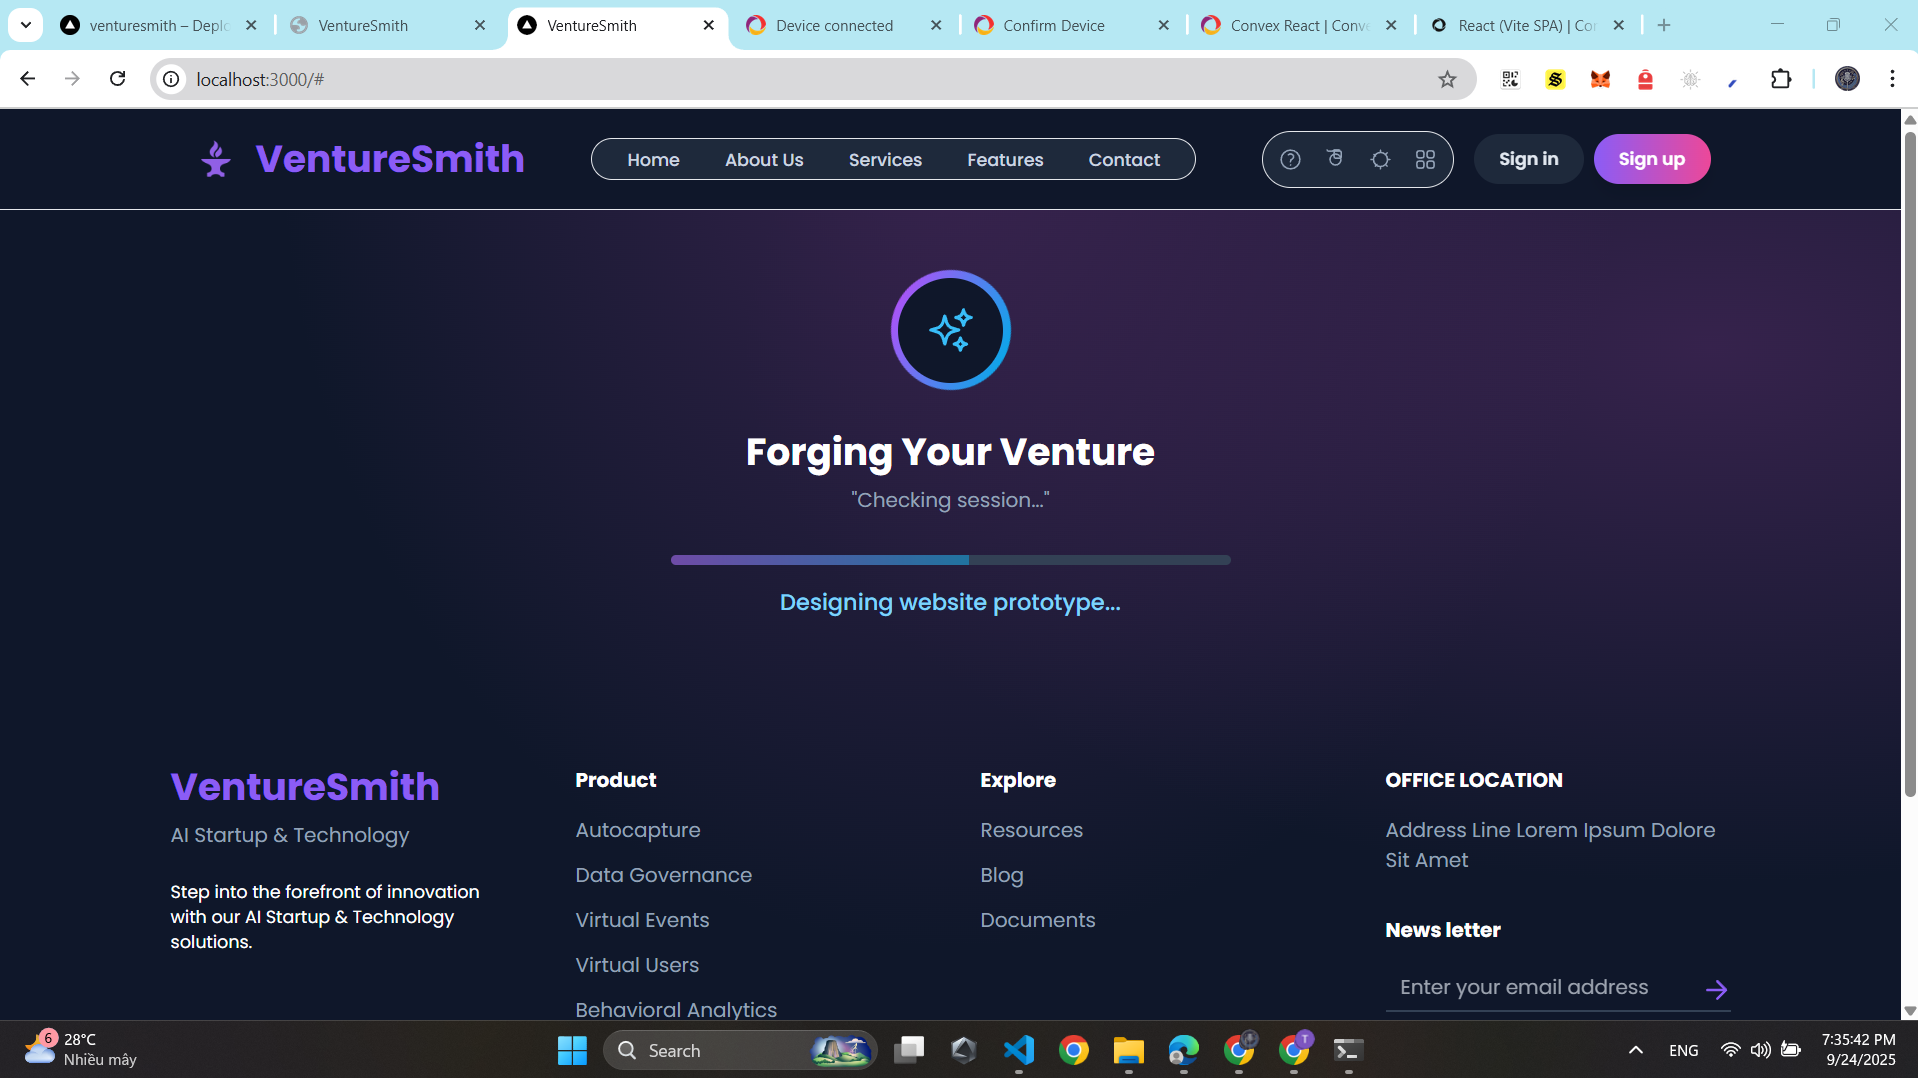
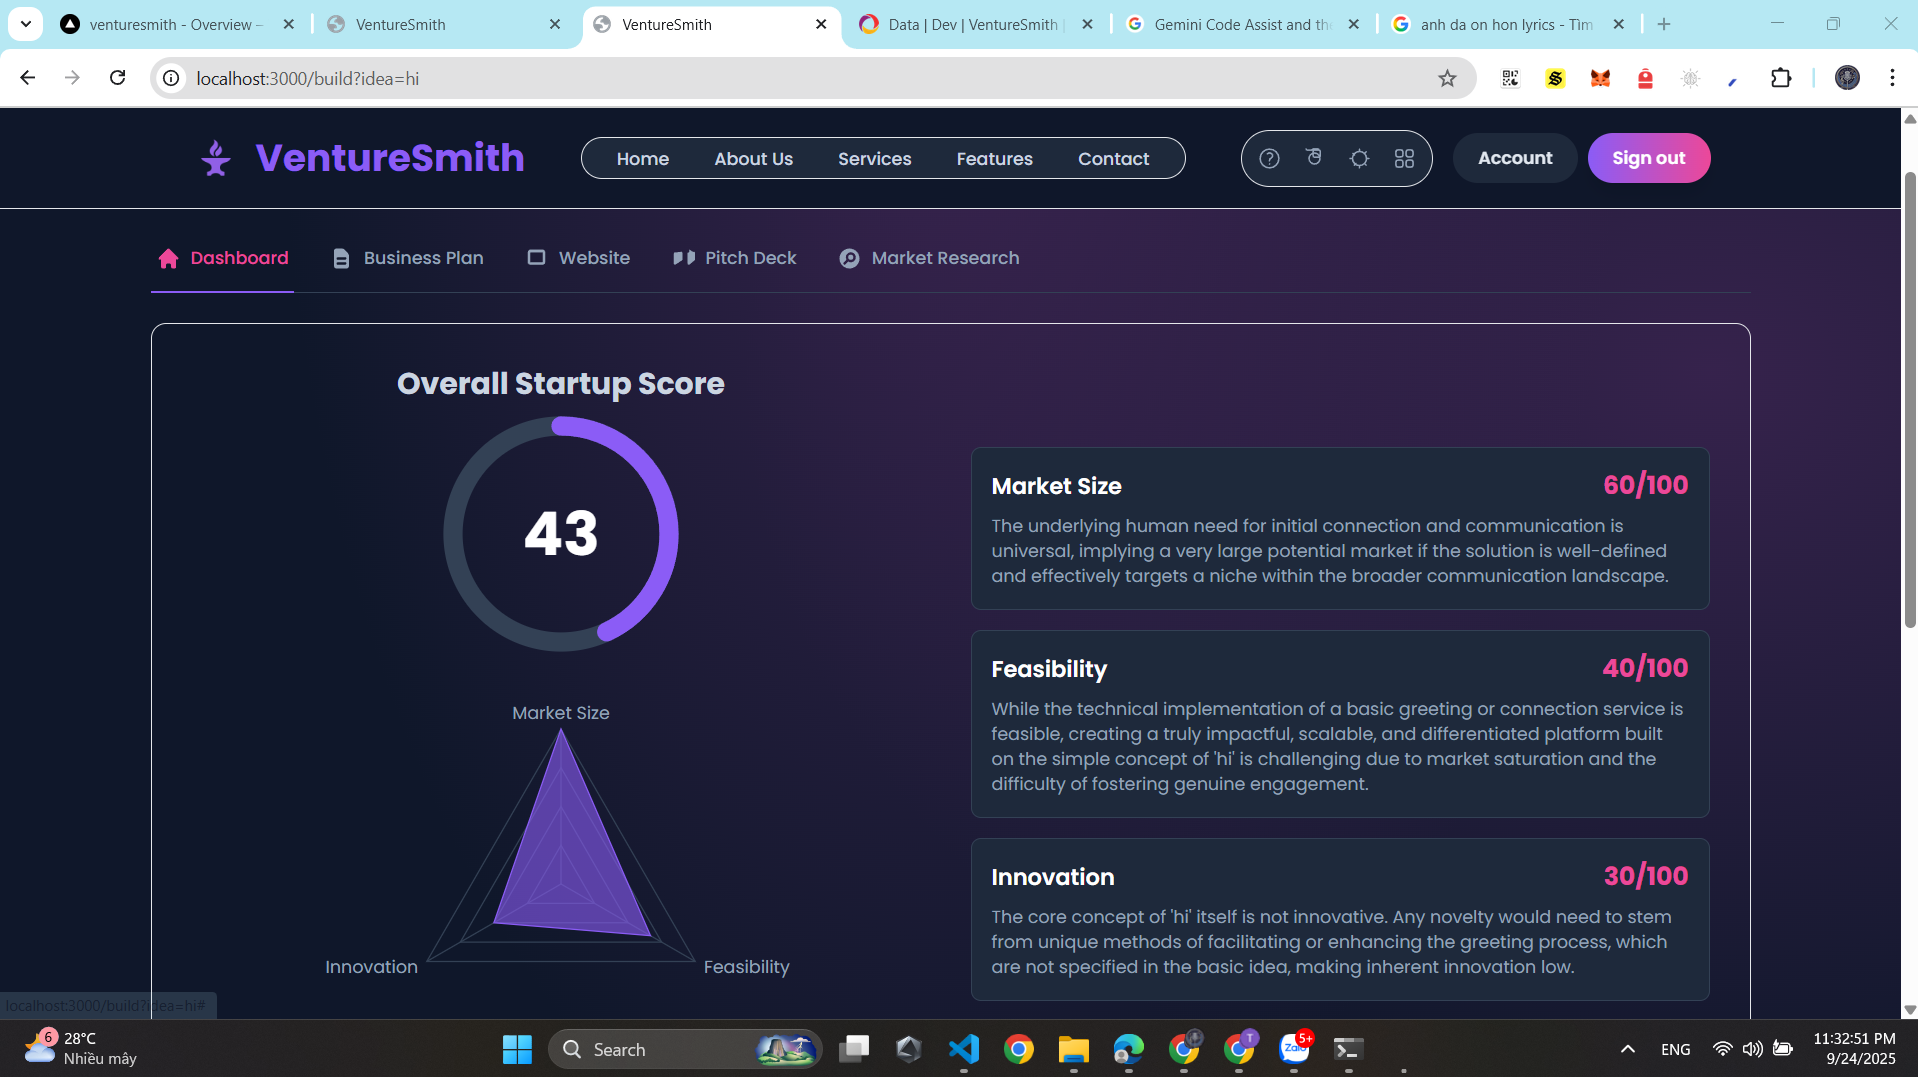
Split the generation part into the /build page

diff --git a/App.tsx b/App.tsx
@@ -1,96 +1,20 @@
-
-import React, { useState, useCallback } from 'react';
-import { Routes, Route, Link, BrowserRouter } from 'react-router-dom';
-import { ToastContainer, toast } from 'react-toastify'; // Added
-import 'react-toastify/dist/ReactToastify.css'; // Added
-import { StartupData } from './types';
-import { generateStartupAssets } from './services/geminiService';
-import { IdeaInputForm } from './components/IdeaInputForm';
-import { InfoSection } from './components/InfoSection';
-import { GrowthSection } from './components/GrowthSection';
-import { TransformSection } from './components/TransformSection';
-import { LoadingIndicator } from './components/LoadingIndicator';
-import { ResultsDashboard } from './components/ResultsDashboard';
-import { Footer } from './components/Footer';
-import { Header } from './components/Header';
+import React, { useState } from 'react';
+import { Routes, Route, BrowserRouter } from 'react-router-dom';
+import { ToastContainer } from 'react-toastify';
+import 'react-toastify/dist/ReactToastify.css';
+import { Footer } from './components/pages/Footer';
+import { Header } from './components/pages/Header';
 import { useTheme } from './contexts/ThemeContext';
 import { SignIn } from './components/pages/SignIn';
 import { SignUp } from './components/pages/SignUp';
-import { authClient } from './lib/auth-client';
-import { LoginModal } from './components/LoginModal';
+import { Build } from './components/pages/Build';
+import { Home } from './components/pages/Home';
+import { LoginModal } from './components/pages/LoginModal';
 import './App.css';
 
 const App: React.FC = () => {
     const { theme } = useTheme();
-    const [idea, setIdea] = useState<string>('');
-    const [isLoading, setIsLoading] = useState<boolean>(false);
-    const [results, setResults] = useState<StartupData | null>(null);
-    const [error, setError] = useState<string | null>(null);
     const [isLoginModalOpen, setIsLoginModalOpen] = useState<boolean>(false);
-    const { data: session, isPending } = authClient.useSession();
-
-    const handleGenerate = useCallback(async (submittedIdea: string) => {
-        if (!session) {
-            setIsLoginModalOpen(true);
-            return;
-        }
-        if (!submittedIdea || isLoading) return;
-        setIdea(submittedIdea);
-        setIsLoading(true);
-        setResults(null);
-        setError(null);
-
-        try {
-            const data = await generateStartupAssets(submittedIdea);
-            setResults(data);
-        } catch (err: any) {
-            setError(err.message || 'An unexpected error occurred.');
-        } finally {
-            setIsLoading(false);
-        }
-    }, [isLoading, session]);
-    
-    const handleReset = () => {
-        setIdea('');
-        setResults(null);
-        setError(null);
-        setIsLoading(false);
-    }
-
-    const renderContent = () => {
-        if (isPending) {
-            return <LoadingIndicator idea="Checking session..." />;
-        }
-
-        if (isLoading) {
-            return <LoadingIndicator idea={idea} />;
-        }
-        if (results) {
-            return <ResultsDashboard data={results} onReset={handleReset} />;
-        }
-        if (error) {
-            return (
-                <div className="text-center p-8">
-                    <h2 className="text-2xl font-bold text-red-500 mb-4">Generation Failed</h2>
-                    <p className="text-red-300 mb-6 max-w-2xl mx-auto">{error}</p>
-                    <button
-                        onClick={handleReset}
-                        className="bg-gradient-to-r from-purple-500 to-pink-500 text-white font-bold py-2 px-6 rounded-lg hover:opacity-90 transition-colors duration-300"
-                    >
-                        Try Again
-                    </button>
-                </div>
-            );
-        }
-        return (
-            <>
-                <IdeaInputForm onGenerate={handleGenerate} />
-                <InfoSection />
-                <GrowthSection />
-                <TransformSection />
-            </>
-        );
-    };
 
     return (
         <BrowserRouter>
@@ -99,11 +23,11 @@ const App: React.FC = () => {
                 <main className="flex-grow flex items-center justify-center p-4">
                     <div className="w-full max-w-7xl mx-auto">
                         <Routes>
-                            <Route path="/" element={renderContent()} />
+                            <Route path="/" element={<Home />} />
+                            <Route path="/build" element={<Build />} />
                             <Route path="/signin" element={<SignIn />} />
                             <Route path="/signup" element={<SignUp />} />
                         </Routes>
-                        <button onClick={() => toast("This is a test notification!")}>Toast</button>
                     </div>
                 </main>
                 <Footer />

diff --git a/components/pages/Build.tsx b/components/pages/Build.tsx
@@ -1,0 +1,87 @@
+import React, { useState, useCallback, useEffect } from 'react';
+import { useLocation, useNavigate } from 'react-router-dom';
+import { StartupData } from '../../types';
+import { generateStartupAssets } from '../../services/geminiService';
+import { LoadingIndicator } from './LoadingIndicator';
+import { ResultsDashboard } from './ResultsDashboard';
+import { authClient } from '../../lib/auth-client';
+import { LoginModal } from './LoginModal';
+import './Build.css';
+
+export const Build: React.FC = () => {
+    const [idea, setIdea] = useState<string>('');
+    const [isLoading, setIsLoading] = useState<boolean>(false);
+    const [results, setResults] = useState<StartupData | null>(null);
+    const [error, setError] = useState<string | null>(null);
+    const [isLoginModalOpen, setIsLoginModalOpen] = useState<boolean>(false);
+    const { data: session, isPending } = authClient.useSession();
+    const location = useLocation();
+    const navigate = useNavigate();
+
+    const handleGenerate = async (submittedIdea: string) => {
+        if (!session) {
+            setIsLoginModalOpen(true);
+            return;
+        }
+        if (!submittedIdea || isLoading) return;
+        setIdea(submittedIdea);
+        setIsLoading(true);
+        setResults(null);
+        setError(null);
+
+        try {
+            const data = await generateStartupAssets(submittedIdea);
+            setResults(data);
+        } catch (err: any) {
+            setError(err.message || 'An unexpected error occurred.');
+        } finally {
+            setIsLoading(false);
+        }
+    };
+    
+    const handleReset = () => {
+        setIdea('');
+        setResults(null);
+        setError(null);
+        setIsLoading(false);
+        navigate('/');
+    }
+
+    useEffect(() => {
+        const searchParams = new URLSearchParams(location.search);
+        const ideaFromQuery = searchParams.get('idea');
+        if (ideaFromQuery) {
+            handleGenerate(ideaFromQuery);
+        }
+    }, [location.search, session]);
+
+    if (isPending) {
+        return <LoadingIndicator idea="Checking session..." />;
+    }
+
+    if (isLoading) {
+        return <LoadingIndicator idea={idea} />;
+    }
+    if (results) {
+        return <ResultsDashboard data={results} onReset={handleReset} />;
+    }
+    if (error) {
+        return (
+            <div className="text-center p-8">
+                <h2 className="text-2xl font-bold text-red-500 mb-4">Generation Failed</h2>
+                <p className="text-red-300 mb-6 max-w-2xl mx-auto">{error}</p>
+                <button
+                    onClick={handleReset}
+                    className="bg-gradient-to-r from-purple-500 to-pink-500 text-white font-bold py-2 px-6 rounded-lg hover:opacity-90 transition-colors duration-300"
+                >
+                    Try Again
+                </button>
+            </div>
+        );
+    }
+    return (
+        <div className="build-container">
+            <LoginModal isOpen={isLoginModalOpen} onClose={() => setIsLoginModalOpen(false)} />
+        </div>
+    );
+}

diff --git a/components/pages/MarketResearch.tsx b/components/pages/MarketResearch.tsx
@@ -1,6 +1,6 @@
 
 import React from 'react';
-import { MarketResearchData } from '../types';
+import { MarketResearchData } from '../../types';
 
 interface MarketResearchProps {
     data: MarketResearchData;
@@ -18,13 +18,13 @@ export const MarketResearch: React.FC<MarketResearchProps> = ({ data }) => {
             <h2 className="text-3xl font-bold text-[var(--text-color)] mb-8 text-center">Market Research Summary</h2>
             <div className="space-y-8">
                 <div className="bg-[var(--bg-slate-900)]/50 p-6 rounded-lg border border-[var(--border-slate-700)]">
-                    <h3 className="text-xl font-bold text-[var(--secondary-color)] mb-3">Market Landscape</h3>
+                    <h3 className="text-xl font-bold text-[var(--primary-color)] mb-3">Market Landscape</h3>
                     <p className="text-[var(--text-slate-300)] leading-relaxed">{data.summary}</p>
                 </div>
 
                 <div className="grid grid-cols-1 md:grid-cols-2 gap-8">
                     <div className="bg-[var(--bg-slate-900)]/50 p-6 rounded-lg border border-[var(--border-slate-700)]">
-                        <h3 className="text-xl font-bold text-[var(--secondary-color)] mb-4">Potential Competitors</h3>
+                        <h3 className="text-xl font-bold text-[var(--primary-color)] mb-4">Potential Competitors</h3>
                         <div className="flex flex-wrap gap-3">
                             {data.competitors.map((competitor, index) => (
                                 <Chip key={index}>{competitor}</Chip>
@@ -32,7 +32,7 @@ export const MarketResearch: React.FC<MarketResearchProps> = ({ data }) => {
                         </div>
                     </div>
                     <div className="bg-[var(--bg-slate-900)]/50 p-6 rounded-lg border border-[var(--border-slate-700)]">
-                        <h3 className="text-xl font-bold text-[var(--secondary-color)] mb-4">Key Trends</h3>
+                        <h3 className="text-xl font-bold text-[var(--primary-color)] mb-4">Key Trends</h3>
                         <div className="flex flex-wrap gap-3">
                             {data.trends.map((trend, index) => (
                                 <Chip key={index}>{trend}</Chip>

diff --git a/components/pages/ResultsDashboard.tsx b/components/pages/ResultsDashboard.tsx
@@ -1,5 +1,5 @@
 import React, { useState } from 'react';
-import { StartupData } from '../types';
+import { StartupData } from '../../types';
 import { Scorecard } from './Scorecard';
 import { BusinessPlan } from './BusinessPlan';
 import { WebsitePrototype } from './WebsitePrototype';
@@ -67,7 +67,7 @@ export const ResultsDashboard: React.FC<ResultsDashboardProps> = ({ data, onRese
                                 onClick={() => setActiveTab(tab)}
                                 className={`${
                                     activeTab === tab
-                                        ? 'border-[var(--primary-color)] text-[var(--secondary-color)]'
+                                        ? 'border-[var(--primary-color)] text-[var(--primary-color)]'
                                         : 'border-transparent text-[var(--text-slate-400)] hover:text-[var(--text-slate-200)] hover:border-[var(--border-slate-500)]'
                                 } whitespace-nowrap py-4 px-1 border-b-2 font-medium text-sm flex items-center transition-colors`}
                             >

diff --git a/components/pages/Scorecard.tsx b/components/pages/Scorecard.tsx
@@ -1,6 +1,6 @@
 
 import React from 'react';
-import { ScorecardData } from '../types';
+import { ScorecardData } from '../../types';
 import { Radar, RadarChart, PolarGrid, PolarAngleAxis, ResponsiveContainer, Tooltip } from 'recharts';
 
 interface ScorecardProps {
@@ -32,7 +32,7 @@ const ScoreInfoCard: React.FC<{ title: string; score: number; justification: str
     <div className="bg-[var(--bg-slate-800)] p-4 rounded-lg border border-[var(--border-slate-700)]">
         <div className="flex justify-between items-baseline mb-2">
             <h3 className="font-semibold text-lg text-[var(--text-color)]">{title}</h3>
-            <span className="font-bold text-xl text-[var(--secondary-color)]">{score}/100</span>
+            <span className="font-bold text-xl text-[var(--primary-color)]">{score}/100</span>
         </div>
         <p className="text-sm text-[var(--text-slate-400)]">{justification}</p>
     </div>

diff --git a/components/pages/PitchDeck.tsx b/components/pages/PitchDeck.tsx
@@ -1,6 +1,6 @@
 
 import React, { useState } from 'react';
-import { PitchDeckData } from '../types';
+import { PitchDeckData } from '../../types';
 
 interface PitchDeckProps {
     data: PitchDeckData;
@@ -46,7 +46,7 @@ export const PitchDeck: React.FC<PitchDeckProps> = ({ data }) => {
                 </div>
                 
                 <div className="border-t border-[var(--border-slate-700)] pt-6">
-                    <h4 className="text-lg font-semibold text-[var(--secondary-color)] mb-3">Pitch Script:</h4>
+                    <h4 className="text-lg font-semibold text-[var(--primary-color)] mb-3">Pitch Script:</h4>
                     <p className="text-[var(--text-slate-300)] whitespace-pre-line leading-relaxed italic">{data.script}</p>
                 </div>
             </div>

diff --git a/components/pages/BusinessPlan.tsx b/components/pages/BusinessPlan.tsx
@@ -1,6 +1,6 @@
 
 import React from 'react';
-import { BusinessPlanData } from '../types';
+import { BusinessPlanData } from '../../types';
 
 interface BusinessPlanProps {
     data: BusinessPlanData;
@@ -8,7 +8,7 @@ interface BusinessPlanProps {
 
 const Section: React.FC<{ title: string; children: React.ReactNode }> = ({ title, children }) => (
     <div className="bg-[var(--bg-slate-900)]/50 p-6 rounded-lg border border-[var(--border-slate-700)]">
-        <h3 className="text-xl font-bold text-[var(--secondary-color)] mb-3">{title}</h3>
+        <h3 className="text-xl font-bold text-[var(--primary-color)] mb-3">{title}</h3>
         <p className="text-[var(--text-slate-300)] leading-relaxed">{children}</p>
     </div>
 );

diff --git a/components/pages/Home.tsx b/components/pages/Home.tsx
@@ -1,0 +1,23 @@
+import React from 'react';
+import { useNavigate } from 'react-router-dom';
+import { InfoSection } from './InfoSection';
+import { GrowthSection } from './GrowthSection';
+import { TransformSection } from './TransformSection';
+import { IdeaInputForm } from './IdeaInputForm';
+
+export const Home: React.FC = () => {
+    const navigate = useNavigate();
+
+    const handleGenerate = (idea: string) => {
+        navigate(`/build?idea=${idea}`);
+    };
+
+    return (
+        <>
+            <IdeaInputForm onGenerate={handleGenerate} />
+            <InfoSection />
+            <GrowthSection />
+            <TransformSection />
+        </>
+    );
+};

diff --git a/components/pages/Header.tsx b/components/pages/Header.tsx
@@ -1,7 +1,7 @@
 import { toast } from 'react-toastify'; // Added
 import React, { useState } from 'react';
 import { Link, useNavigate } from 'react-router-dom';
-import { useTheme } from '../contexts/ThemeContext';
+import { useTheme } from '../../contexts/ThemeContext';
 
 const QuestionMarkIcon = () => (
     <svg xmlns="http://www.w3.org/2000/svg" fill="none" viewBox="0 0 24 24" strokeWidth={1.5} stroke="currentColor" className="w-5 h-5">
@@ -34,7 +34,7 @@ const MoonIcon = () => (
 );
 
 
-import { authClient } from '../lib/auth-client';
+import { authClient } from '../../lib/auth-client';
 
 // ... (keep all the existing icon components)
 

diff --git a/components/pages/Hero.css b/components/pages/Hero.css
@@ -1,0 +1,24 @@
+.hero-container {
+    text-align: center;
+    padding: 4rem 2rem;
+}
+
+.hero-title {
+    font-size: 3rem;
+    font-weight: bold;
+    margin-bottom: 1rem;
+}
+
+.hero-subtitle {
+    font-size: 1.25rem;
+    margin-bottom: 2rem;
+}
+
+.hero-button {
+    background-color: var(--primary-color);
+    color: white;
+    padding: 1rem 2rem;
+    border-radius: 0.5rem;
+    text-decoration: none;
+    font-weight: bold;
+}

diff --git a/components/pages/Hero.tsx b/components/pages/Hero.tsx
@@ -1,0 +1,11 @@
+import React from 'react';
+import './Hero.css';
+
+export const Hero: React.FC = () => {
+    return (
+        <div className="hero-container">
+            <h1 className="hero-title">Build Your Startup with AI</h1>
+            <p className="hero-subtitle">Turn your idea into a reality. Get a business plan, market research, and more.</p>
+        </div>
+    );
+};

diff --git a/components/pages/WebsitePrototype.tsx b/components/pages/WebsitePrototype.tsx
@@ -1,6 +1,6 @@
 
 import React from 'react';
-import { WebsitePrototypeData } from '../types';
+import { WebsitePrototypeData } from '../../types';
 
 interface WebsitePrototypeProps {
     data: WebsitePrototypeData;
